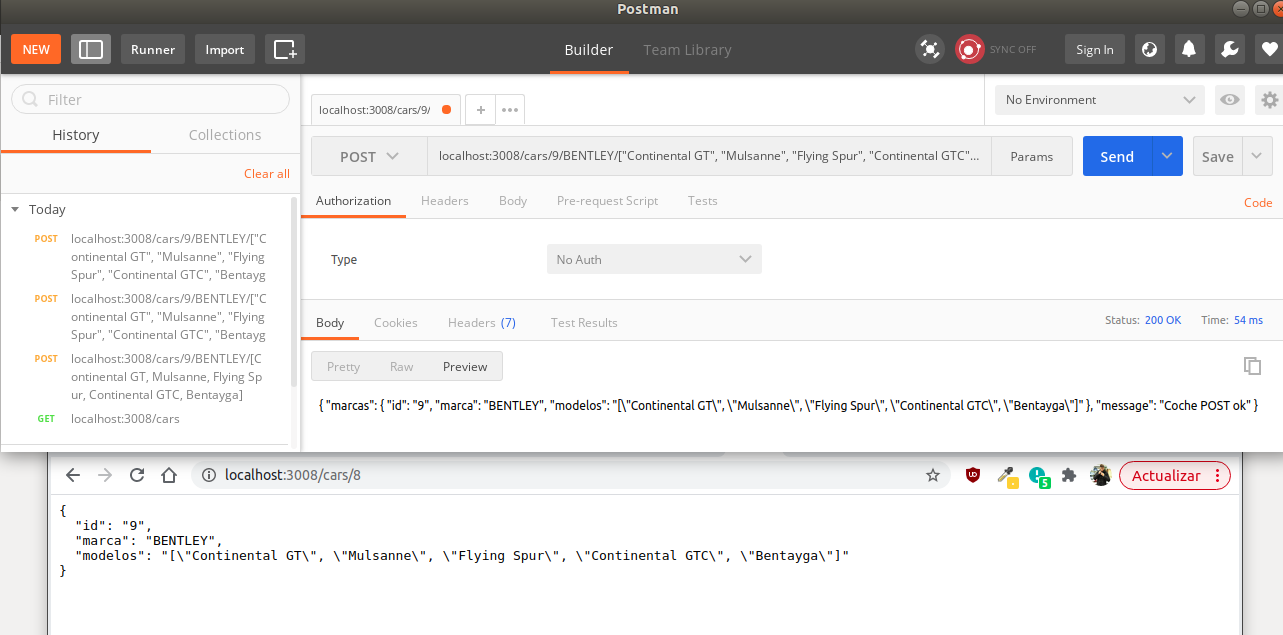
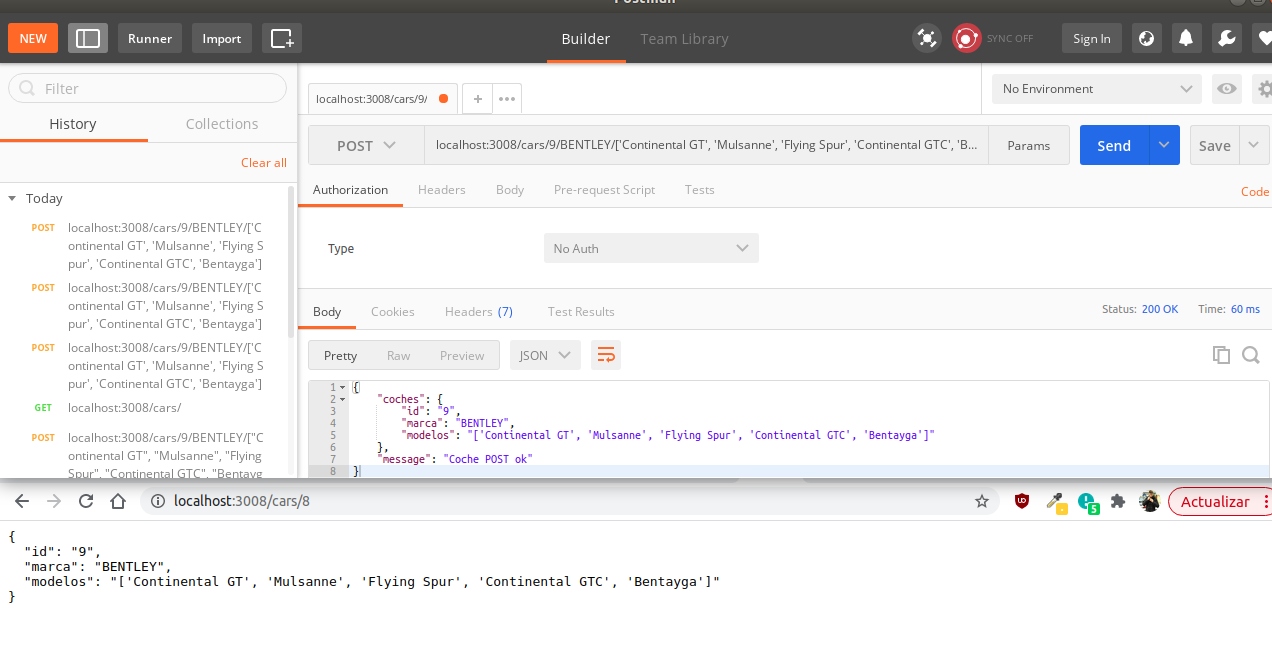
Se añade  ejer 3 #6

diff --git a/tema6/pruebaT6/routes/cars.js b/tema6/pruebaT6/routes/cars.js
@@ -29,7 +29,7 @@ router.post("/cars/:id/:marca/:modelos", (req, res) => {
     });
     res.status(200);
     res.send({
-        marcas: cars.coches[id - 1],
+        coches: cars.coches[id - 1],
         message: "Coche POST ok",
     });
 });
